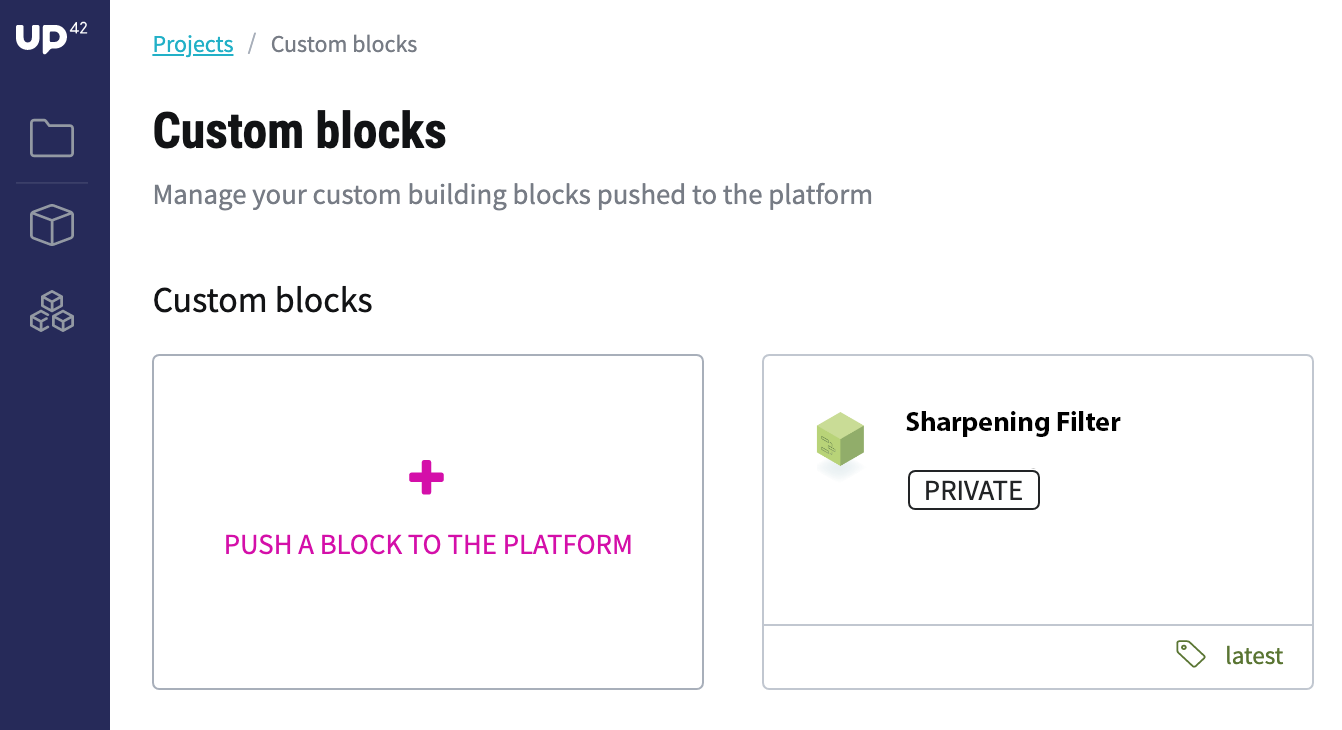
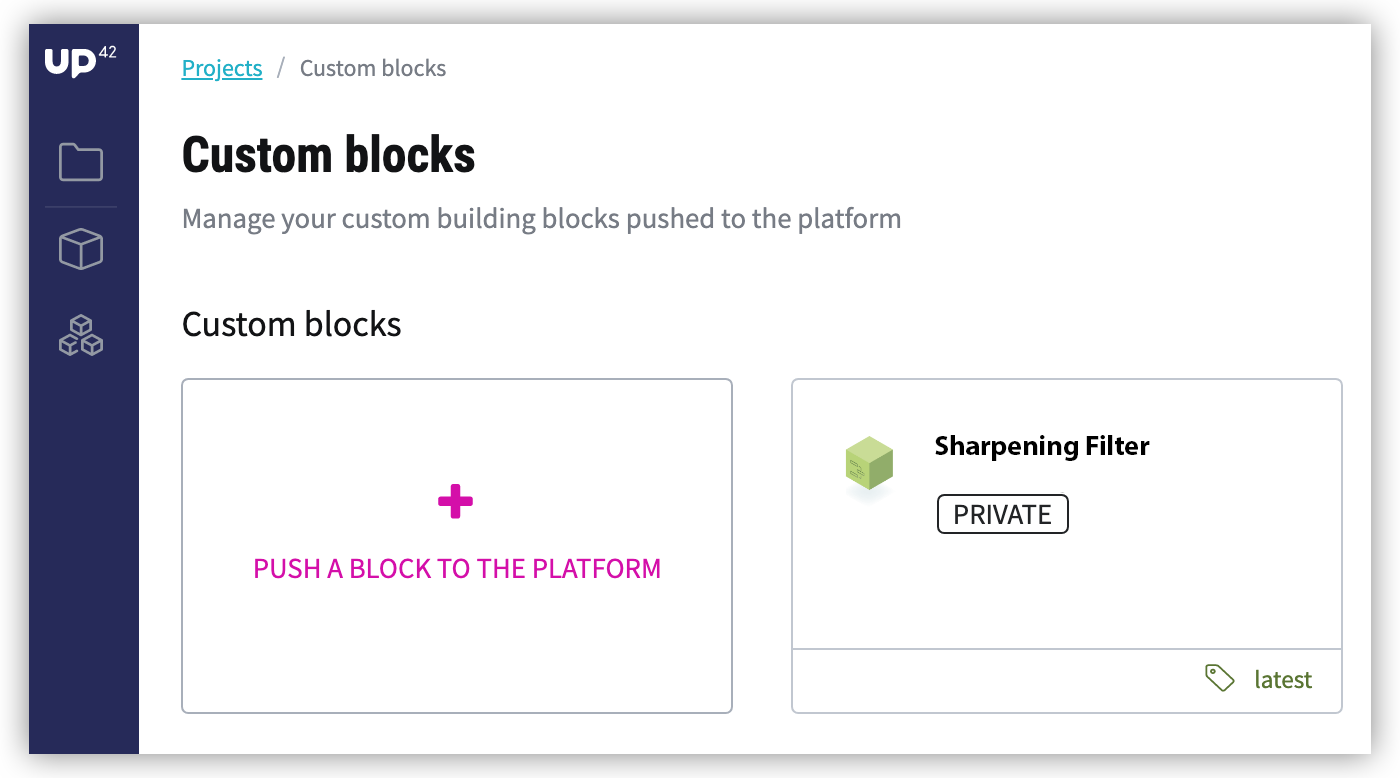
Use direct docker commands in quickstart: First custom block (#152)
* Improve initial description

* change structure clone repo

* switch login up42 docker repo to docker command from make

* rework build section

* rework push container section

* replace all make commands with direct docker commands

* misc description changes

* remove GNU make from requirements, better in advanced chapter

* change clone subsection

* change login subsection

* change build subsection

* change success subsection

* Shorten & clarify instructions, remove unneccesary references.

* use bash cat for manifest inclusion

* Instructions fix

* add custom block in workflow builder image

* add shadow to custom blocks menu image

* review wording changes

diff --git a/source/getting-started/first-custom-block.rst b/source/getting-started/first-custom-block.rst
@@ -4,117 +4,108 @@
 
 
 .. _first-custom-block:
-              
+
 ===============================
  Upload your first custom block
 ===============================
 
 If you want to use your own processing methods or data sources on the UP42 platform,
-you can create :term:`custom blocks<custom block>` that can be seamlessly integrated into UP42 :term:`workflows<workflow>`.
-This section will guide you through bringing an example custom block to the UP42 platform.
+you can create :term:`custom blocks<custom block>` that can be seamlessly integrated into UP42 workflows.
+The block will appear in the `Custom blocks section <https://console.up42.com/custom-blocks/>`_ of
+your UP42 :term:`console`. It can then be used like any other data or processing block.
 
-The block will appear in the `Custom blocks section <https://console.up42.com/custom-blocks/>`_ of your UP42 :term:`console` and can then be used
-like any other processing block when building a workflow.
+This section will give you step-by-step instructions on how to upload a custom block to UP42, using
+the `sharpening filter example block <https://github.com/up42/sharpening>`_ from our public `UP42 github profile <https://github.com/up42>`_.
+
 
 .. figure:: _assets/custom_block_menu_sharpening.png
    :align: center
    :alt: The UP42 custom block console menu
 
-   The UP42 custom block console menu
-
-We provide multiple example custom blocks (both data & processing) on our public `UP42 github profile <https://github.com/up42>`_.
-In this chapter we will work with the `Sharpening filter example block <https://github.com/up42/sharpening>`_.
-You can later use these public block examples as templates to easily write your own custom block code.
 
 .. _requirements:
 
 Requirements
 ------------
 
-This example requires the **Mac OS X or Linux bash**, an example using **Windows** will be provided shortly.
-In order to bring this example block or your own custom block to the UP42 platform the following tools are required:
-
- - `UP42 <https://up42.com>`_ account -  Sign up for free!
- - `Python 3.7 <https://python.org/downloads>`_
- - `git <https://git-scm.com/>`_
- - `docker engine <https://docs.docker.com/engine/>`_
- - `GNU make <https://www.gnu.org/software/make/>`_
-
-
-Instructions
-------------
-
-The following step-by-step instructions will guide you through setting up, dockerizing and pushing the example custom
-block to UP42.
+This example requires the **Mac OS X or Linux bash**, `git <https://git-scm.com/>`_ and `Docker Engine <https://docs.docker.com/engine/>`_.
+The example repository code uses `Python 3.7 <https://python.org/downloads>`_.
 
 
 .. _clone_the_repository:
 
-Clone the repository
-++++++++++++++++++++
+Download the example block
+--------------------------
 
-To access the example block code clone the repository using git in a bash terminal:
-
-.. code:: bash
-
-   git clone https://github.com/up42/sharpening.git
-
-Then navigate to the folder via
+Clone the example block using git and navigate to the folder that contains the Dockerfile and UP42Manifest:
 
 .. code:: bash
 
-    cd sharpening
+  git clone https://github.com/up42/sharpening.git
+  cd sharpening/blocks/sharpening
 
-Usually you would then proceed to customize the block code to fit your own needs, or install the necessary libraries to test the block code locally.
-We will skip these steps here and directly push the block to the UP42 platform, see section :ref:`Developing a custom processing block <custom-processing-block-dev>`
-for more advanced instructions on custom block development & publishing.
+
+We will skip changing the example code here and directly push the block to the UP42 platform.
+See section :ref:`Developing a custom processing block <custom-processing-block-dev>` for more advanced instructions on custom block development.
+
+
+.. _login_UP42_docker_repository:
+
+Authenticate with the UP42 Docker registry
+------------------------------------------
+
+First login to the UP42 docker registry. Replace **<USERNAME>** with the **email address** you login with on the UP42 website.
+Make sure Docker is running on your computer. When asked for your password, enter your UP42 account password.
+
+.. code:: bash
+
+  docker login -u=<USERNAME> http://registry.up42.com
+
+  # Example:
+  docker login -u=hans.schmidt@up42.com http://registry.up42.com
 
 
 .. _build_the_block:
 
-Build the custom block
-++++++++++++++++++++++
+Build the block container
+-------------------------
 
-First login to the UP42 docker registry. `me@example.com` needs to be replaced by your **UP42 username**,
-which is the email address you use on the UP42 website.
+Then build the block container, replace **<User-ID>** with your **UP42 User-ID**.
 
-.. code:: bash
-
-   make login USER=me@example.com
-
-In order to push the block to the UP42 platform, you need to build the block Docker container with your
-**UP42 user ID**. To get your user ID, go to the `UP42 custom-blocks menu <https://console.up42.com/custom-blocks>`_.
-Click on "`PUSH a BLOCK to THE PLATFORM`" and copy your user ID from the command shown on the last line at
-"`Push the image to the UP42 Docker registry`". The user ID will look similar to this:
-`63uayd50-z2h1-3461-38zq-1739481rjwia`
-
-Pass the user ID to the build command:
+To get your **UP42 User-ID**, go to the the `UP42 custom-blocks menu <https://console.up42.com/custom-blocks>`_ and click on
+"`PUSH A BLOCK TO THE PLATFORM`". At the bottom of the popup, copy your user ID from the
+command "`Push the image to the UP42 Docker registry`" (e.g. ``6760d08e-54e3-4f1c-b22e-6ba605ec7592``).
 
 .. code:: bash
 
-   make build UID=<UID>
+  docker build . -t registry.up42.com/<USER-ID>/sharpening:1.0 --build-arg manifest="$(cat UP42Manifest.json)"
 
-*As an example:*
-
-.. code:: bash
-
-   make build UID=63uayd50-z2h1-3461-38zq-1739481rjwia
+  # Example:
+  docker build . -t registry.up42.com/6760d08e-54e3-4f1c-b22e-6ba605ec7592/sharpening:1.0 --build-arg manifest="$(cat UP42Manifest.json)"
 
 
 .. _push_the_block:
 
-Push the custom block to the UP42 platform
-++++++++++++++++++++++++++++++++++++++++++
+Push the custom block to UP42
+-----------------------------
 
-Now you can finally push the image to the UP42 docker registry, again passing in your user ID:
+Now you can push the image to the UP42 docker registry. Replace **<User-ID>** with your **UP42 User-ID**.
 
 .. code:: bash
 
-   make push UID=<UID>
+   docker push registry.up42.com/<USER-ID>/sharpening:1.0
 
-**Success!** The `Sharpening Filter` example block will now appear in the `UP42 custom-blocks menu <https://console.up42.com/custom-blocks>`_ menu
-and can be selected under the *Custom blocks* tab when building a workflow.
+   # Example:
+   docker push registry.up42.com/6760d08e-54e3-4f1c-b22e-6ba605ec7592/sharpening:1.0
 
 
-You can find more advanced instructions on custom block development & publishing in the later section
-:ref:`developing a custom processing block <custom-processing-block-dev>`.
+**Success!** The Sharpening Filter example block will now appear in the `UP42 custom-blocks menu <https://console.up42.com/custom-blocks>`_.
+When building a workflow it can be selected under the *Custom blocks* tab.
+
+.. figure:: _assets/custom_block_workflow.png
+   :align: center
+   :scale: 40 %
+   :alt: Custom block in the workflow builder
+
+You can find more advanced instructions on custom block development & publishing in the chapter
+:ref:`Developing a custom processing block <custom-processing-block-dev>`.
